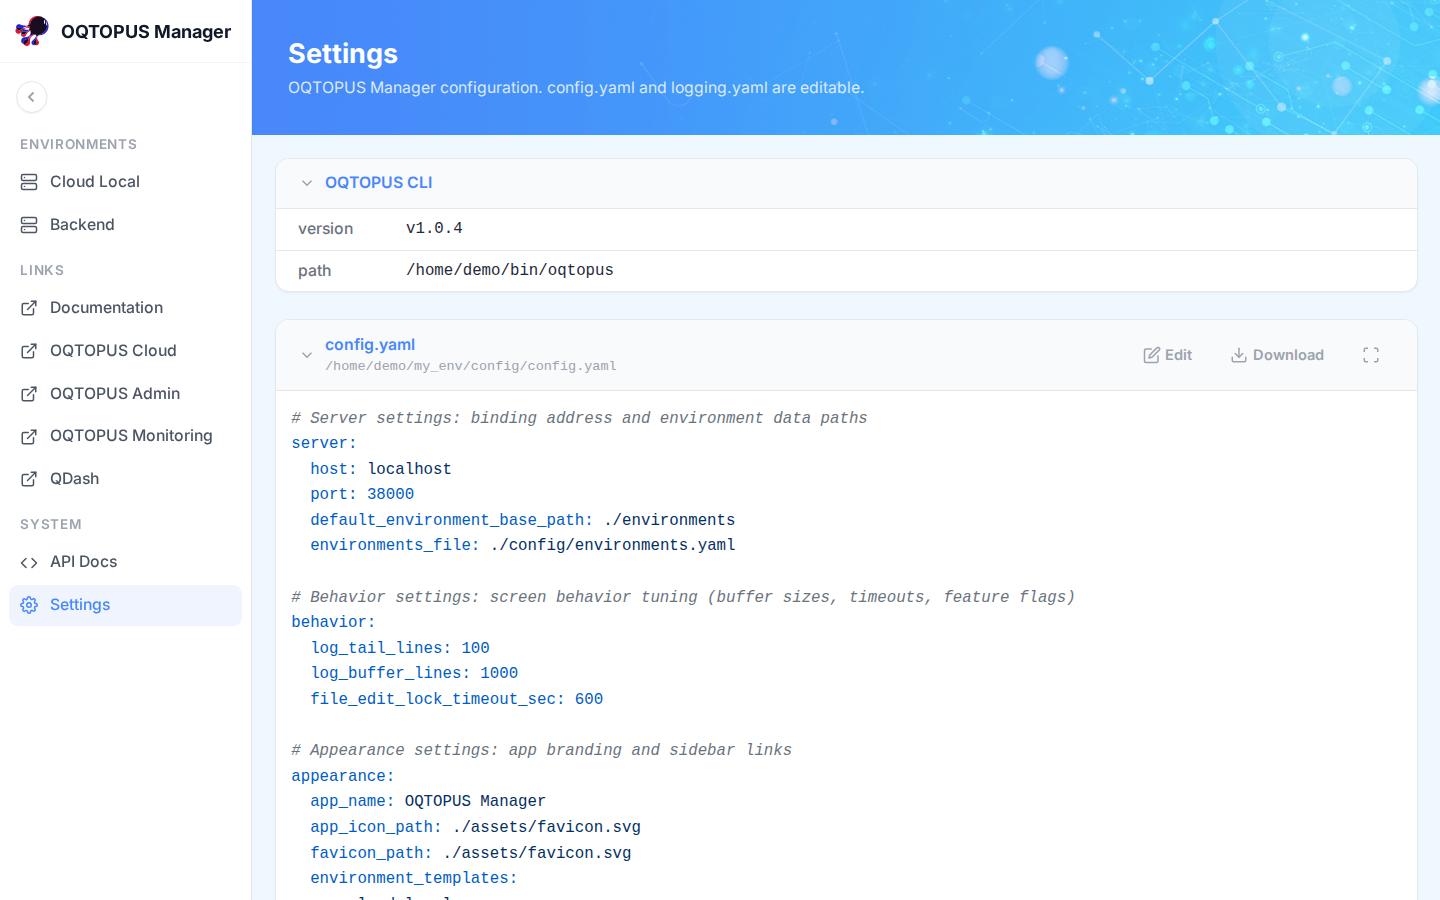
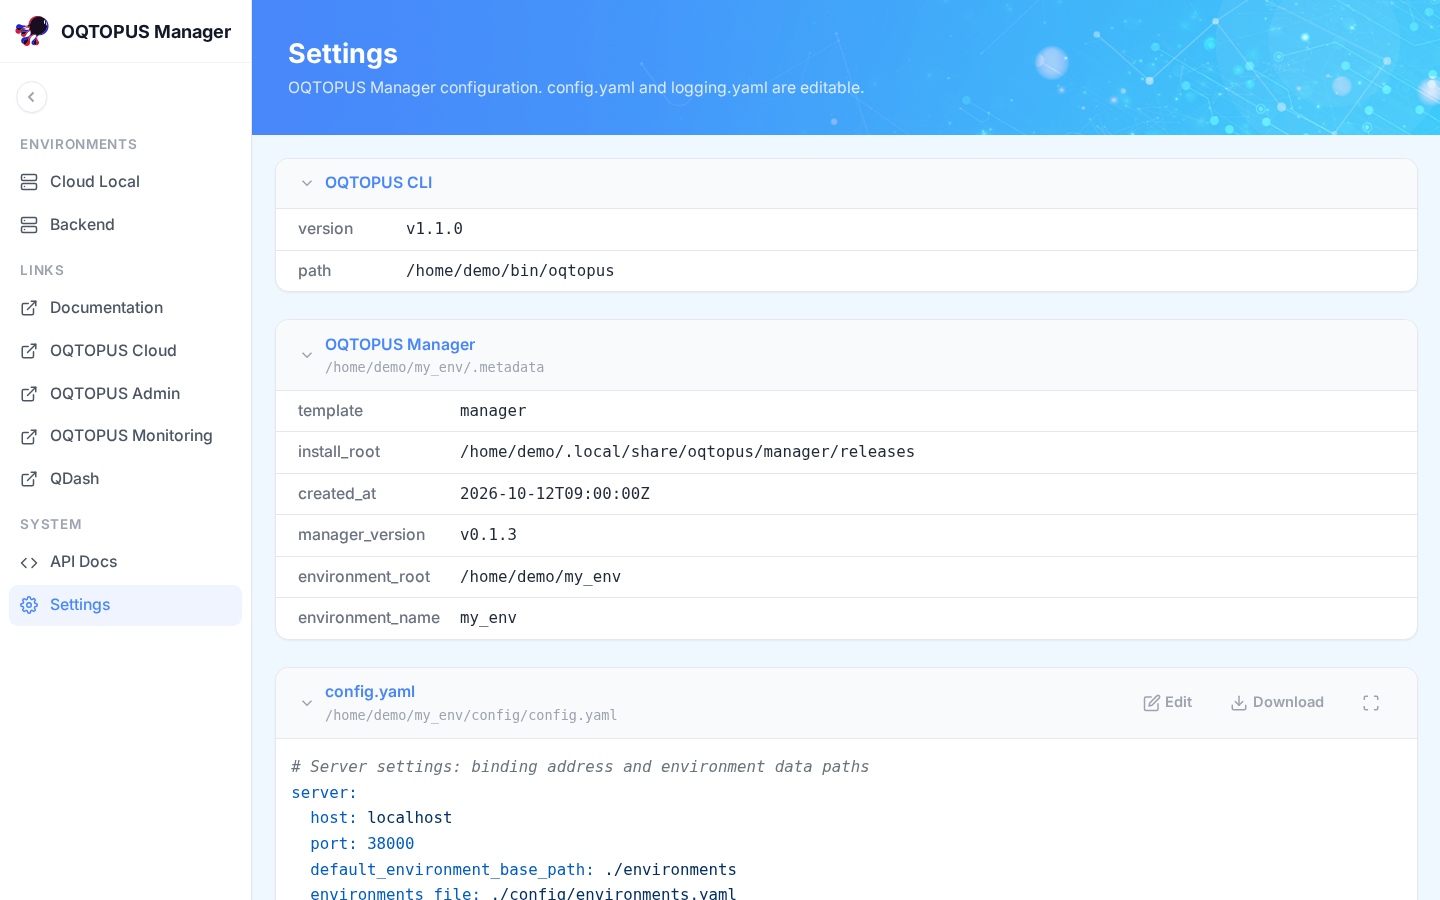
feat: show OQTOPUS Manager environment metadata on the Settings page

diff --git a/src/oqtopus_manager/templates/app_settings.html b/src/oqtopus_manager/templates/app_settings.html
@@ -51,6 +51,27 @@
     </dl>
   </details>
 
+  {# OQTOPUS Manager environment metadata | read-only; hidden when `oqtopus manager info` fails #}
+  {% if manager_info %}
+  <details data-sec="appsettings-manager" class="bg-white rounded-xl shadow-sm border border-gray-200 overflow-hidden group" open>
+    <summary class="flex items-center gap-2 px-5 py-3 bg-gray-50 cursor-pointer hover:bg-gray-100 transition-colors border-b border-transparent group-open:border-gray-200">
+      <svg xmlns="http://www.w3.org/2000/svg" class="h-4 w-4 text-gray-400 flex-shrink-0 transition-transform duration-200 group-open:rotate-90" viewBox="0 0 24 24" fill="none" stroke="currentColor" stroke-width="2"><path d="M9 18l6-6-6-6"/></svg>
+      <div class="flex-1 min-w-0">
+        <h2 class="text-sm font-semibold text-[#4887FA]">OQTOPUS Manager</h2>
+        {% if manager_metadata_path %}<p class="text-xs text-gray-400 font-mono mt-0.5 truncate">{{ manager_metadata_path }}</p>{% endif %}
+      </div>
+    </summary>
+    <dl class="divide-y divide-gray-200">
+      {% for key, value in manager_info %}
+      <div class="flex items-center px-5 py-2">
+        <dt class="w-36 text-sm font-medium text-gray-500 flex-shrink-0">{{ key }}</dt>
+        <dd class="text-sm font-mono text-gray-800">{{ value or '—' }}</dd>
+      </div>
+      {% endfor %}
+    </dl>
+  </details>
+  {% endif %}
+
   {# config.yaml | editable for admin, read-only for operator #}
   {% if can_update %}
   {{ editor_section('cfg', 'config.yaml', config_path, 'appsettings-config', 'code-config', 'language-yaml', config_content, "downloadCode('code-config', 'config.yaml')") }}

diff --git a/src/oqtopus_manager/routers/app_settings.py b/src/oqtopus_manager/routers/app_settings.py
@@ -55,6 +55,54 @@ async def _run_quick(argv: list[str]) -> str:
         return "timeout"
 
 
+async def _run_manager_info() -> str | None:
+    """Run ``oqtopus manager info`` in the current working directory.
+
+    ``oqtopus manager start`` launches the manager with its environment root as
+    the CWD, so the CLI finds that environment's ``.metadata``. When the manager
+    runs outside such an environment (e.g. from a source checkout) the command
+    fails and the caller hides the section.
+
+    Returns:
+        The command stdout, or None if the command is missing, times out,
+        exits non-zero, or prints nothing.
+
+    """
+    try:
+        proc = await asyncio.create_subprocess_exec(
+            "oqtopus",
+            "manager",
+            "info",
+            stdout=asyncio.subprocess.PIPE,
+            stderr=asyncio.subprocess.PIPE,
+        )
+        stdout, _ = await asyncio.wait_for(proc.communicate(), timeout=5)
+    except FileNotFoundError:
+        return None
+    except TimeoutError:
+        return None
+    if proc.returncode != 0:
+        return None
+    return stdout.decode(errors="replace").strip() or None
+
+
+def _parse_info(info: str | None) -> list[tuple[str, str]]:
+    """Split ``key=value`` lines of ``oqtopus ... info`` output into pairs.
+
+    Lines without ``=`` are ignored; the CLI's key order is preserved.
+
+    Returns:
+        A list of ``(key, value)`` tuples, empty when ``info`` is None.
+
+    """
+    items = []
+    for line in (info or "").splitlines():
+        key, sep, value = line.partition("=")
+        if sep and key.strip():
+            items.append((key.strip(), value.strip()))
+    return items
+
+
 def _which_to_path(which: str, cfg: AppConfig) -> pathlib.Path:
     """Resolve 'config' or 'logging' to the corresponding settings file path.
 
@@ -122,6 +170,9 @@ async def settings_page(request: Request) -> HTMLResponse:
     oqtopus_path = shutil.which("oqtopus") or "not found"
     raw_version = await _run_quick(["oqtopus", "version"])
     oqtopus_version = raw_version.removeprefix("oqtopus ").strip()
+    manager_info = _parse_info(await _run_manager_info())
+    manager_root = dict(manager_info).get("environment_root", "").rstrip("/")
+    manager_metadata_path = f"{manager_root}/.metadata" if manager_root else None
     lock_ctx = _build_lock_context(cfg)
 
     return request.app.state.templates.TemplateResponse(
@@ -136,6 +187,8 @@ async def settings_page(request: Request) -> HTMLResponse:
             "environments_content": _read(environments_path),
             "oqtopus_path": oqtopus_path,
             "oqtopus_version": oqtopus_version,
+            "manager_info": manager_info,
+            "manager_metadata_path": manager_metadata_path,
             "can_update": request.app.state.permissions.has_permission(
                 user, "app_settings.update"
             ),

diff --git a/tests/oqtopus_manager/routers/test_routes.py b/tests/oqtopus_manager/routers/test_routes.py
@@ -615,6 +615,72 @@ def test_settings_page_renders(client: TestClient) -> None:
     assert b"oqtopus" in resp.content or resp.status_code == 200
 
 
+def test_settings_page_shows_manager_info(
+    client: TestClient, mocker: MockerFixture
+) -> None:
+    info = (
+        "template=manager\n"
+        "manager_version=v0.1.1\n"
+        "environment_root=/home/user/myenv\n"
+    )
+    mocker.patch(
+        "oqtopus_manager.routers.app_settings._run_manager_info", return_value=info
+    )
+    resp = client.get("/settings")
+    assert resp.status_code == 200
+    assert 'data-sec="appsettings-manager"' in resp.text
+    assert ">manager_version</dt>" in resp.text
+    assert ">v0.1.1</dd>" in resp.text
+    assert "/home/user/myenv/.metadata" in resp.text
+
+
+def test_settings_page_hides_manager_info_when_info_fails(
+    client: TestClient, mocker: MockerFixture
+) -> None:
+    mocker.patch(
+        "oqtopus_manager.routers.app_settings._run_manager_info", return_value=None
+    )
+    resp = client.get("/settings")
+    assert resp.status_code == 200
+    assert 'data-sec="appsettings-manager"' not in resp.text
+
+
+@pytest.mark.anyio
+async def test_run_manager_info_returns_none_on_nonzero_exit(
+    mocker: MockerFixture,
+) -> None:
+    from oqtopus_manager.routers.app_settings import _run_manager_info
+
+    proc = mocker.MagicMock(returncode=1)
+    proc.communicate = mocker.AsyncMock(
+        return_value=(b"", b"Error: .metadata not found.\n")
+    )
+    mocker.patch("asyncio.create_subprocess_exec", return_value=proc)
+    assert await _run_manager_info() is None
+
+
+@pytest.mark.anyio
+async def test_run_manager_info_returns_stdout_on_success(
+    mocker: MockerFixture,
+) -> None:
+    from oqtopus_manager.routers.app_settings import _run_manager_info
+
+    proc = mocker.MagicMock(returncode=0)
+    proc.communicate = mocker.AsyncMock(return_value=(b"template=manager\n", b""))
+    mocker.patch("asyncio.create_subprocess_exec", return_value=proc)
+    assert await _run_manager_info() == "template=manager"
+
+
+@pytest.mark.anyio
+async def test_run_manager_info_returns_none_when_cli_missing(
+    mocker: MockerFixture,
+) -> None:
+    from oqtopus_manager.routers.app_settings import _run_manager_info
+
+    mocker.patch("asyncio.create_subprocess_exec", side_effect=FileNotFoundError)
+    assert await _run_manager_info() is None
+
+
 def test_settings_lock_acquire_and_release(
     client: TestClient, tmp_path: pathlib.Path
 ) -> None:

diff --git a/docs/usage/configuration.md b/docs/usage/configuration.md
@@ -16,7 +16,17 @@ The following sections describe the configuration options for each section.
 `config.yaml` and `logging.yaml` can also be viewed (and, for admins, edited) from the **Settings** page in the
 application itself, at `/settings`:
 
-![Settings page showing config.yaml and logging.yaml](../asset/screenshots/app_settings_admin.png)
+![Settings page showing the OQTOPUS Manager environment metadata, config.yaml and logging.yaml](../asset/screenshots/app_settings_admin.png)
+
+The Settings page also shows, read-only:
+
+- **OQTOPUS CLI**: the version and path of the `oqtopus` command the application uses.
+- **OQTOPUS Manager**: the output of `oqtopus manager info`, i.e. the `.metadata` of the environment the
+  application was installed into (installed version, install root, environment root, and so on). This section is
+  shown only when the command succeeds, so it is hidden when the application is not running from an OQTOPUS
+  manager environment (for example, when started with `make run` from a source checkout).
+- **environments.yaml** (the file set by `environments_file`): the registry of environments managed by the
+  application.
 
 !!! note
     Saving `config.yaml` from the Settings page only writes the file to disk. Run `oqtopus manager restart`
